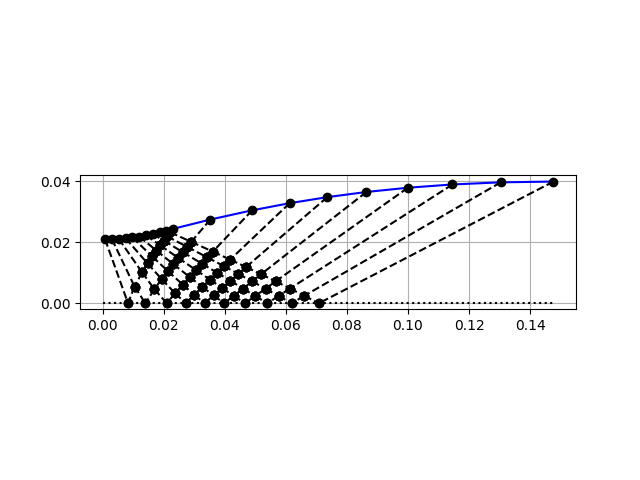
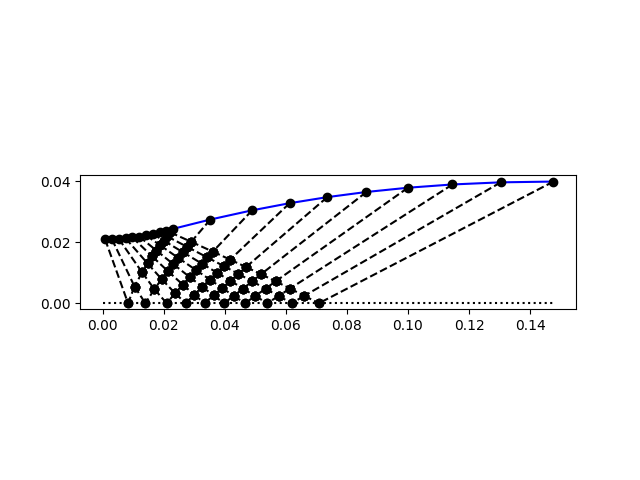
blabla

diff --git a/sources/Nozzle.py b/sources/Nozzle.py
@@ -253,8 +253,8 @@ class Nozzle :
             nozzle_ax.plot([0,self.wall[-1].x],[0,0],'k:')
 
             nozzle_ax.set_aspect('equal')
-            nozzle_ax.grid()
-            plt.savefig('results/nozzle.png')
+            #nozzle_ax.grid()
+            plt.savefig('results/nozzle.png',transparent=True)
 #iteration module
     def iterate(physics,geometry,results) :
         iteration = []
